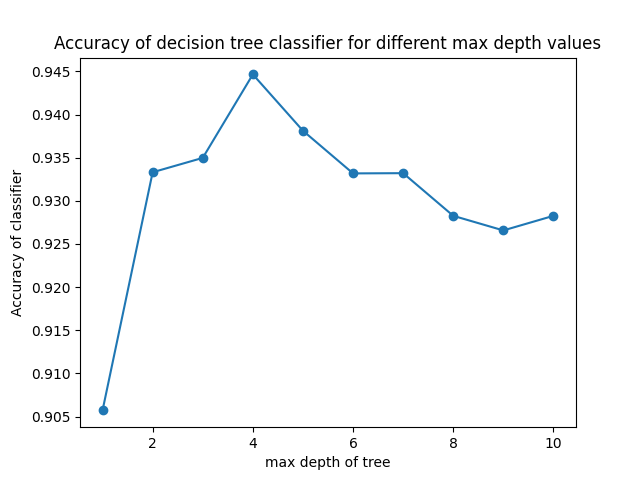
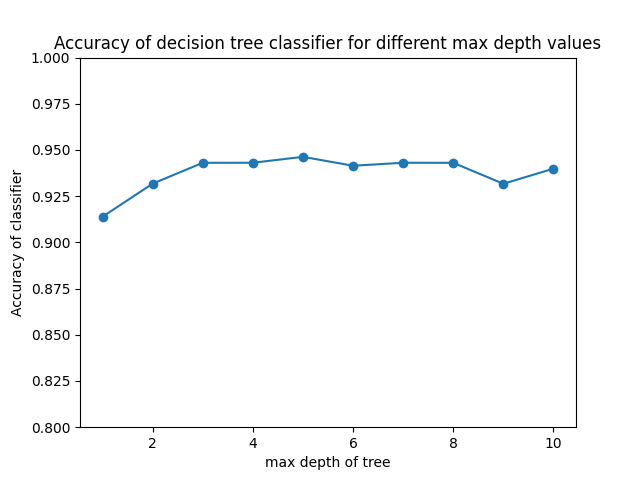
graphs done

diff --git a/classifier.py b/classifier.py
@@ -3,8 +3,6 @@ import sys
 import time
 import pandas as pd
 import matplotlib.pyplot as plt
-import numpy as np
-import sklearn as sk
 from sklearn.model_selection import StratifiedKFold
 from sklearn.neighbors import KNeighborsClassifier
 from sklearn import tree
@@ -44,6 +42,8 @@ if __name__ == "__main__":
     m_validation = m_data.sample(frac = 0.1)
     training_data = training_data.drop(m_validation.index)
     validation_data = b_validation.append(m_validation)
+    validation_data = validation_data.sample(frac=1)
+
 
     # Divide remaining data into 10-fold subsets
     kfold_class = training_data['J']
@@ -67,7 +67,7 @@ if __name__ == "__main__":
     d_params_accuracy = [0,0,0,0,0,0,0,0,0,0]
     
     # SVM using the RBF kernel
-    gamma_params = [.0000001,.000001,.00001,.0001,.001,.01,.1,1,10,100]
+    gamma_params = [.1,.2,.3,.4,.5,.6,.7,.8,.9,1]
     gamma_params_accuracy = [0,0,0,0,0,0,0,0,0,0]
     
     # Deep neural network with sigmoid activation
@@ -225,6 +225,7 @@ if __name__ == "__main__":
         plt.title('Accuracy of KNN classifier for different k values')
         plt.xlabel('k (number of nearest neighbors)')
         plt.ylabel('Accuracy of classifier')
+        plt.ylim([.8, 1])
         plt.show()
         plt.savefig('knn.png')
         plt.cla()   # Clear axis
@@ -235,6 +236,7 @@ if __name__ == "__main__":
         plt.title('Accuracy of decision tree classifier for different max depth values')
         plt.xlabel('max depth of tree')
         plt.ylabel('Accuracy of classifier')
+        plt.ylim([.8, 1])
         plt.show()
         plt.savefig('dectree.png')
         plt.cla()   # Clear axis
@@ -245,6 +247,7 @@ if __name__ == "__main__":
         plt.title('Accuracy of random forest classifier for different quantities of trees')
         plt.xlabel('number of trees in forest')
         plt.ylabel('Accuracy of classifier')
+        plt.ylim([.8, 1])
         plt.show()
         plt.savefig('randomforest.png')
         plt.cla()   # Clear axis
@@ -255,6 +258,7 @@ if __name__ == "__main__":
         plt.title('Accuracy of SVM polynomial kernel classifier for different d values')
         plt.xlabel('d (degree of polynomial kernel)')
         plt.ylabel('Accuracy of classifier')
+        plt.ylim([.8, 1])
         plt.show()
         plt.savefig('svmpoly.png')
         plt.cla()   # Clear axis
@@ -265,6 +269,7 @@ if __name__ == "__main__":
         plt.title('Accuracy of SVM RBF classifier for different gamma values')
         plt.xlabel('gamma')
         plt.ylabel('Accuracy of classifier')
+        plt.ylim([.8, 1])
         plt.show()
         plt.savefig('svmrbf.png')
         plt.cla()   # Clear axis
@@ -275,6 +280,7 @@ if __name__ == "__main__":
         plt.title('Accuracy of DNN classifier with Sigmoid activation function for different quantities of neurons in hidden layers')
         plt.xlabel('number of neurons in hidden layers')
         plt.ylabel('Accuracy of classifier')
+        plt.ylim([.8, 1])
         plt.show()
         plt.savefig('dnnsigmoid.png')
         plt.cla()   # Clear axis
@@ -285,6 +291,7 @@ if __name__ == "__main__":
         plt.title('Accuracy of DNN classifier with ReLu activation function for different quantities of neurons in hidden layers')
         plt.xlabel('number of neurons in hidden layers')
         plt.ylabel('Accuracy of classifier')
+        plt.ylim([.8, 1])
         plt.show()
         plt.savefig('dnnrelu.png')
         plt.cla()   # Clear axis
